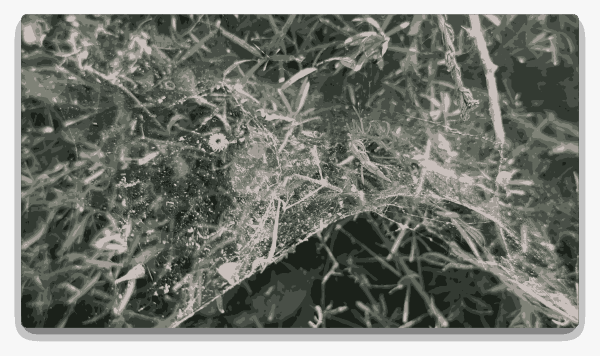
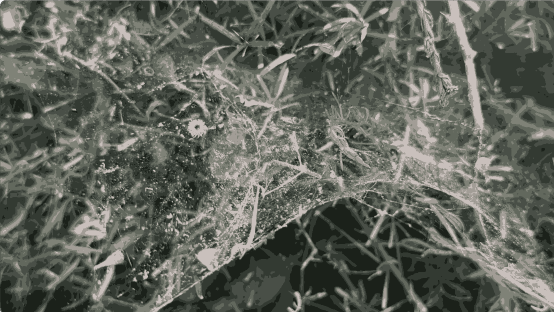
finished Studio 1

diff --git a/studio1/styles.css b/studio1/styles.css
@@ -6,6 +6,9 @@ body {
     position: relative;
     height: 100vh;
     overflow: hidden;
+    /* overflow-y: hidden; */
+    /* max-width: 1200px;
+    margin: 0 auto; */
 }
 
 #media1-container, #media2-container, #media3-container, #media4-container {
@@ -15,50 +18,54 @@ body {
 }
 
 #media1-container {
-    width: 55%;
+    width: 90%;
     aspect-ratio: 15/11;
     transform: rotate(10deg);
-    bottom: 5%;
+    bottom: -2%;
     left: -1%;
     z-index: 10;
-    background: url('images/media1.png');
+    /* background: url('images/media1.png');
     background-size: cover;
-    background-repeat: no-repeat;
+    background-repeat: no-repeat; */
+    max-width: 1652px;
 }
 
 #media2-container {
-    width: 50%;
+    width: 70%;
     aspect-ratio: 13/8;
     right: -8%;
-    bottom: 5%;
+    bottom: 30%;
     transform: rotate(-2deg);
     z-index: 2;
-    background: url('images/media2.png');
+    /* background: url('images/media2.png');
     background-size: cover;
-    background-repeat: no-repeat;
+    background-repeat: no-repeat; */
+    max-width: 1200px;
 }
 
 #media3-container {
-    width: 19%;
+    width: 35%;
     aspect-ratio: 12/16;
-    top: -1%;
-    right: 30%;
+    top: 5%;
+    right: 70%;
     transform: rotate(-5deg);
     z-index: 3;
-    background: url('images/media3.png');
+    /* background: url('images/media3.png');
     background-size: cover;
-    background-repeat: no-repeat;
+    background-repeat: no-repeat; */
+    max-width: 570px;
 }
 
 #media4-container {
-    width: 40%;
+    width: 80%;
     aspect-ratio: 16/9;
-    top: -5%;
+    top: -3%;
     right: -15%;
     transform: rotate(7deg);
-    background: url('images/media4.png');
+    max-width: 1500px;
+    /* background: url('images/media4.png');
     background-size: cover;
-    background-repeat: no-repeat;
+    background-repeat: no-repeat; */
 }
 
 #media1, #media2, #media3, #media4 {
@@ -71,7 +78,6 @@ body {
 
 /* video[poster] {
   width: 100%;
-  aspect-ratio: 13/8;
   object-fit: cover;
 } */
 
@@ -82,7 +88,7 @@ body {
     height: 100%;
     mask-repeat: no-repeat;
     mask-position: center;
-    border: 10px solid rgb(255, 231, 231);
+    border: 10px solid rgb(254, 237, 222);
     box-shadow: 0px 0px 11px 5px rgba(0,0,0,0.75);
 }
 
@@ -119,15 +125,19 @@ body {
 
 #poem {
     z-index: 20;
+    position: relative;
+    max-width: 900px;
+    margin: 0 auto;
+    min-height: 800px;
 }
 
-.line, #line12 {
+.line {
     position: absolute;
     font-family: "Noto Sans", sans-serif;
     font-weight: 600;
     font-style: italic;
     padding: 15px 20px;
-    color:rgb(255, 231, 231);
+    color:rgb(254, 237, 222);
     font-size: 1em;
     background-color: rgba(0, 0, 0, 0.75);
     width: fit-content;
@@ -190,8 +200,8 @@ body {
 }
 
 #line12 {
-    bottom: 10px;
-    text-shadow: 0px 0px 6px #000000;
+    top: 651px;
+    text-shadow: 0px 0px 20px #000000;
     background-color: transparent;
     left: 25%;
 }
@@ -203,5 +213,29 @@ body {
 
     #line12 {
         font-size: 1.2em;
+    }
+
+    #media1-container {
+        width: 55%;
+        bottom: 5%;
+        left: -1%;
+    }
+
+    #media2-container {
+        width: 50%;
+        right: -8%;
+        bottom: 5%;
+    }
+
+    #media3-container {
+        width: 19%;
+        top: -1%;
+        right: 30%;
+    }
+
+    #media4-container {
+        width: 40%;
+        top: -5%;
+        right: -15%;
     }
 }

diff --git a/studio1/index.html b/studio1/index.html
@@ -19,7 +19,7 @@
 
     <div id="media1-container">
         <div class="content-wrapper">
-            <video id="media1" muted autoplay playsinline>
+            <video id="media1" poster="images/media1.png" muted autoplay playsinline>
                 <source src="media/media1.webm" type="video/webm">
                 <source src="media/media1.mp4" type="video/mp4">
 
@@ -31,7 +31,7 @@
 
     <div id="media2-container">
         <div class="content-wrapper">
-            <video id="media2" muted playsinline>
+            <video id="media2" poster="images/media2.png" muted playsinline>
                 <source src="media/media2.webm" type="video/webm">
                 <source src="media/media2.mp4" type="video/mp4">
 
@@ -42,7 +42,7 @@
 
     <div id="media3-container">
         <div class="content-wrapper">
-            <video id="media3" muted playsinline>
+            <video id="media3" poster="images/media3.png" muted playsinline>
                 <source src="media/media3.webm" type="video/webm">
                 <source src="media/media3.mp4" type="video/mp4">
 
@@ -53,7 +53,7 @@
 
     <div id="media4-container">
         <div class="content-wrapper">
-            <video id="media4" muted playsinline>
+            <video id="media4" poster="images/media4.png" muted playsinline>
                 <source src="media/media4.webm" type="video/webm">
                 <source src="media/media4.mp4" type="video/mp4">
 
@@ -74,7 +74,7 @@
         <p class="line" id="line9">because even in heaven</p>
         <p class="line" id="line10">they don't sing</p>
         <p class="line" id="line11">all the time</p>
-        <p id="line12">&ndash;Lawrence Ferlinghetti</p>
+        <p class="line" id="line12">&ndash;Lawrence Ferlinghetti</p>
     </section>
     
 

diff --git a/studio1/script.js b/studio1/script.js
@@ -29,7 +29,7 @@
     const line12 = document.querySelector('#line12');
 
     const poem = {
-        start: [2, 4, 6, 8, 10, 12, 14, 16, 18, 20, 22, 24],
+        start: [2, 4, 6, 8, 10, 12, 14, 16, 18, 20, 22, 25],
         lines: [line1, line2, line3, line4, line5, line6, line7, line8, line9, line10, line11, line12]
     }
 
@@ -55,7 +55,7 @@
 
     function checkTime() {
         const elapsedTime = (Date.now() - startTime) / 1000;
-        console.log(elapsedTime);
+        // console.log(elapsedTime);
         
         for (let i = 0; i < poem.start.length; i++) {
             if (elapsedTime >= poem.start[i]) {
@@ -76,7 +76,7 @@
                 const endSize = mediaElements.endSize[j];
                 const size = startSize - (progress * (startSize - endSize));
                 mediaElements.mask[j].style.maskSize = size + "%";
-                mediaElements.container[j].style.background = 'transparent';
+                // mediaElements.container[j].style.background = 'transparent';
 
                 const grayscale = localTime * 100;
                 mediaElements.media[j].style.filter = `grayscale(${grayscale}%)`;
